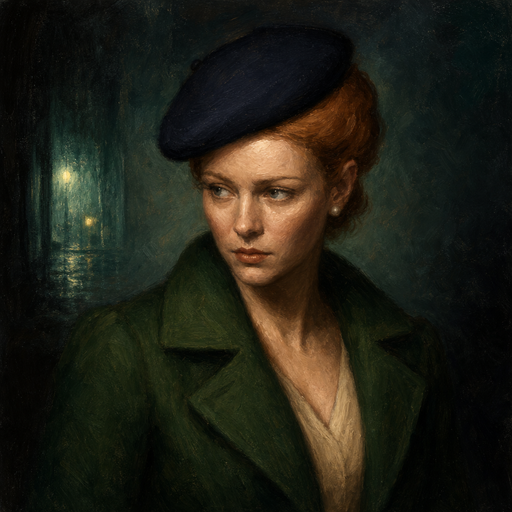
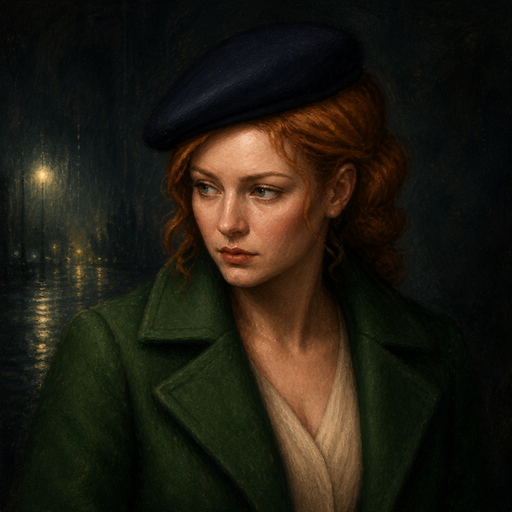
Refresh Lila March to a younger V9 identity with BGEE pixel crunch. (#3)
Regenerate her SW key, arrival/departure masters, and dialogue portrait as an
early-twenties emerald-coat client, then install 25 LilaArrival cells plus the
portrait through process_pre_rendered_characters_v9.py (V7 crunch, NE→NW flip).

diff --git a/ArtSource/Processing/process_pre_rendered_characters_v9.py b/ArtSource/Processing/process_pre_rendered_characters_v9.py
@@ -1,0 +1,214 @@
+#!/usr/bin/env python3
+"""V9 Lila March identity refresh: process PreRendered3DV9 masters with V7 crunch.
+
+Reuses V6 slicing/registration and V7 pixelization (80px / 64 colors / nearest →
+200px). Harlan Voss is not regenerated. Installs the hand-readable dialogue
+portrait (Lanczos → 512×512; no nearest-pixelize).
+
+NW departure cells are horizontal flips of the approved NE cells (no re-crunch)
+so face-peek and emerald coat stay on the structural test contract.
+"""
+
+from pathlib import Path
+import shutil
+
+import numpy as np
+from PIL import Image, ImageDraw
+
+import process_pre_rendered_characters_v3 as raster
+from process_pre_rendered_characters_v7 import pixelize_figure_v7
+from process_character_gait_v5 import remove_green_screen
+
+
+ROOT = Path(__file__).resolve().parents[2]
+CLIENT_SOURCE = ROOT / "ArtSource/Generated/Characters/Client/PreRendered3DV9"
+PORTRAIT_SOURCE = ROOT / "ArtSource/Generated/UI/Dialogue"
+DIALOGUE_UI = ROOT / "RainShadow Shared/Resources/Art/UI/Dialogue"
+ATLASES = ROOT / "RainShadow Shared/Resources/Art/Atlases"
+BACKUP = ROOT / "ArtSource/Generated/Characters/RuntimeBackupLilaPreRendered3DV7"
+
+LILA_ATLAS = "LilaArrival.atlas"
+
+
+def keyed(source_dir: Path, stem: str) -> Path:
+    chroma = source_dir / f"{stem}_chroma_v09.png"
+    rgba = source_dir / f"{stem}_rgba_v09.png"
+    remove_green_screen(chroma, rgba)
+    return rgba
+
+
+def despill_figure(figure: Image.Image) -> Image.Image:
+    """Kill leftover chroma fringe and pull coat G−R toward the V7 emerald band."""
+    pixels = np.asarray(figure.convert("RGBA")).copy()
+    rgb = pixels[..., :3].astype(np.float32)
+    red, green, blue = rgb[..., 0], rgb[..., 1], rgb[..., 2]
+    alpha = pixels[..., 3].astype(np.float32)
+
+    # Near-pure #00ff00 leftovers → transparent.
+    pure = (alpha > 40) & (green > 150) & (green > red + 40) & (green > blue + 40)
+    alpha[pure] = 0
+
+    # Soft fringe despill where green still dominates the other channels heavily.
+    other = np.maximum(red, blue)
+    dominance = green - other
+    spill = (alpha > 4) & (dominance > 28) & (green > 90)
+    green = np.where(spill, np.minimum(green, other * 1.08 + 8.0), green)
+
+    # Mild coat pull: deep emerald mid-tones with G−R still high after keying.
+    coat = (
+        (alpha > 80)
+        & (green > 30)
+        & (green < 160)
+        & (green > red)
+        & (green > blue)
+        & ((green - red) > 14)
+    )
+    green = np.where(coat, green - np.minimum(green - red - 12.0, 6.0), green)
+
+    pixels[..., 0] = np.clip(red, 0, 255).astype(np.uint8)
+    pixels[..., 1] = np.clip(green, 0, 255).astype(np.uint8)
+    pixels[..., 2] = np.clip(blue, 0, 255).astype(np.uint8)
+    pixels[..., 3] = np.clip(alpha, 0, 255).astype(np.uint8)
+    pixels[pixels[..., 3] < 4] = 0
+    return Image.fromarray(pixels, "RGBA")
+
+
+def save_frame_v9(frame: Image.Image, atlas_name: str, filename: str, source_dir: Path) -> None:
+    registered_dir = source_dir / "Registered_v09"
+    registered_dir.mkdir(parents=True, exist_ok=True)
+    atlas = ATLASES / atlas_name
+    atlas.mkdir(parents=True, exist_ok=True)
+    path = registered_dir / filename
+    frame.save(path, optimize=True)
+    shutil.copy2(path, atlas / filename)
+
+
+def backup_lila_runtime() -> None:
+    if BACKUP.exists():
+        return
+    BACKUP.mkdir(parents=True)
+    source = ATLASES / LILA_ATLAS
+    if source.exists():
+        destination = BACKUP / LILA_ATLAS
+        destination.mkdir()
+        for path in source.glob("*.png"):
+            shutil.copy2(path, destination / path.name)
+    ui = BACKUP / "UI"
+    ui.mkdir(exist_ok=True)
+    portrait = DIALOGUE_UI / "dialogue_portrait_lila_march_v01.png"
+    if portrait.exists():
+        shutil.copy2(portrait, ui / portrait.name)
+
+
+def process_lila() -> None:
+    rgba = keyed(CLIENT_SOURCE, "lila_arrival_sw_strip")
+    figures = raster.crop_components(rgba, 9, 1)
+    if len(figures) != 9:
+        raise RuntimeError(f"Expected 9 arrival figures, found {len(figures)}")
+    for index, figure in enumerate(figures):
+        save_frame_v9(
+            despill_figure(raster.register(despill_figure(figure))),
+            LILA_ATLAS,
+            f"lila_arrival_sw_{index:02d}.png",
+            CLIENT_SOURCE,
+        )
+
+    rgba = keyed(CLIENT_SOURCE, "lila_departure_ne_strip")
+    figures = raster.crop_components(rgba, 8, 1)
+    if len(figures) != 8:
+        raise RuntimeError(f"Expected 8 NE departure figures, found {len(figures)}")
+    ne_frames: list[Image.Image] = []
+    for index, figure in enumerate(figures):
+        frame = despill_figure(raster.register(despill_figure(figure)))
+        ne_frames.append(frame)
+        save_frame_v9(
+            frame,
+            LILA_ATLAS,
+            f"lila_departure_ne_{index:02d}.png",
+            CLIENT_SOURCE,
+        )
+
+    # NW rear is the horizontal flip of approved NE cells: face peek moves to
+    # viewer-left, and anatomical-left handbag lands screen-right (correct for NW).
+    # Avoids generator NW/NE collapse and keeps coat emerald identical (no re-crunch).
+    for index, frame in enumerate(ne_frames):
+        save_frame_v9(
+            frame.transpose(Image.Transpose.FLIP_LEFT_RIGHT),
+            LILA_ATLAS,
+            f"lila_departure_nw_{index:02d}.png",
+            CLIENT_SOURCE,
+        )
+
+
+def process_lila_portrait() -> None:
+    master = PORTRAIT_SOURCE / "dialogue_portrait_lila_march_v01_master.png"
+    if not master.exists():
+        raise FileNotFoundError(master)
+    portrait = Image.open(master).convert("RGB")
+    portrait = portrait.resize((512, 512), Image.Resampling.LANCZOS)
+    DIALOGUE_UI.mkdir(parents=True, exist_ok=True)
+    portrait.save(DIALOGUE_UI / "dialogue_portrait_lila_march_v01.png", optimize=True)
+
+
+def make_previews_v9() -> None:
+    frame_size = raster.FRAME_SIZE
+    names = (
+        [f"lila_arrival_sw_{i:02d}.png" for i in range(9)]
+        + [f"lila_departure_ne_{i:02d}.png" for i in range(8)]
+        + [f"lila_departure_nw_{i:02d}.png" for i in range(8)]
+    )
+    columns = 9
+    rows = (len(names) + columns - 1) // columns
+    preview = Image.new("RGBA", (frame_size * columns, frame_size * rows), (24, 28, 31, 255))
+    atlas = ATLASES / LILA_ATLAS
+    for index, name in enumerate(names):
+        frame = Image.open(atlas / name).convert("RGBA")
+        preview.alpha_composite(
+            frame,
+            ((index % columns) * frame_size, (index // columns) * frame_size),
+        )
+    out = CLIENT_SOURCE / "preview_lila_v09.png"
+    preview.save(out, optimize=True)
+
+    office = Image.open(ROOT / "ArtSource/References/UI/Map/office_runtime_clean_v02.png").convert("RGBA")
+    actors = [
+        (790, 800, ATLASES / "VossIdle.atlas/voss_standing_idle_se_00.png", 54, 20),
+        (1450, 800, atlas / "lila_arrival_sw_08.png", 44, 15),
+    ]
+    shadow_layer = Image.new("RGBA", office.size)
+    shadow_draw = ImageDraw.Draw(shadow_layer)
+    for root_x, root_y, _, shadow_w, shadow_h in actors:
+        shadow_draw.ellipse(
+            (
+                root_x - shadow_w // 2,
+                root_y - shadow_h // 2,
+                root_x + shadow_w // 2,
+                root_y + shadow_h // 2,
+            ),
+            fill=(0, 0, 0, 88),
+        )
+    office.alpha_composite(shadow_layer)
+    for root_x, root_y, path, _, _ in actors:
+        frame = Image.open(path).convert("RGBA").resize((256, 256), Image.Resampling.NEAREST)
+        office.alpha_composite(frame, (root_x - 128, root_y - 217))
+    office.convert("RGB").save(
+        ROOT / "ArtSource/Generated/Characters/preview_characters_in_office_v09.png",
+        optimize=True,
+    )
+
+
+def main() -> None:
+    backup_lila_runtime()
+    raster.pixelize_figure = pixelize_figure_v7
+    process_lila()
+    process_lila_portrait()
+    make_previews_v9()
+    cells = 9 + 8 + 8
+    print(
+        f"Registered {cells} V9 Lila atlas cells (V7 crunch) from {CLIENT_SOURCE.name}; "
+        f"portrait installed; prior Lila runtime backed up to {BACKUP.name}"
+    )
+
+
+if __name__ == "__main__":
+    main()

diff --git a/ArtSource/Prompts/character_prerendered_3d_v09.md b/ArtSource/Prompts/character_prerendered_3d_v09.md
@@ -1,0 +1,72 @@
+# Character pre-rendered 3D V9 style lock (Lila March identity refresh)
+
+Generated 2026-07-31. Scope: **Lila March only** — SW arrival (8 walk + 1 idle), NE/NW departure (8 each), and dialogue portrait. Harlan Voss stays on the V8 ships. Raster crunch reuses the approved **V7** BGEE pass (80 px native / 64 colors / nearest → 200 px texture).
+
+## Review finding
+
+V6/V7 locked the correct BGEE rendering language and costume palette for Lila, but she still reads as a generic mid-century adult dame. V9 keeps the V6 **silhouette, palette, and processing contract** and refreshes the **face and age**: early twenties, softer prettier bone structure, alert/guarded noir expression, so she reads younger and more attractive at portrait and play scale.
+
+## Shared generation contract
+
+> Create a Baldur's Gate: Enhanced Edition–era Infinity Engine pre-rendered 3D character avatar: a simple textured late-1990s game mesh rendered offline into a small 2D gameplay sprite. Soft directional baked light from the upper-left, soft anti-aliased silhouette against the backdrop, readable clothing folds and masses, ordinary realistic human proportions, and only a few pixels of facial suggestion at play scale. Not modern PBR, not photoreal concept art, not hand-drawn pixel art, not toy/chibi proportions, not hard black comic outlines, not polished contemporary low-poly illustration. No pores, individual hair strands, glossy materials, cinematic rim light, depth of field, floor plane, cast/contact shadow, scenery, text, UI, or watermark. Place every complete figure on a perfectly flat uniform `#00ff00` chroma-key field. Do not use `#00ff00` in the character.
+
+Style references (analysis only — do not copy outfits, faces, or silhouettes):
+
+- `ArtSource/References/BGEE/bgee_avatar_townsfolk_yellow_red.png`
+- `ArtSource/References/BGEE/bgee_avatar_red_tunic_fighter.png`
+- `ArtSource/References/BGEE/bgee_avatar_dark_vest_fighter.png`
+- `ArtSource/References/BGEE/bgee_avatar_green_robe.png`
+- `ArtSource/References/BGEE/bgee_avatar_mage_circle_robes.png`
+- `ArtSource/References/BGEE/bgee_avatar_plate_armor_fighter.png`
+
+Identity gate reference (V9 approved key — match this character in every sheet):
+
+- `ArtSource/Generated/Characters/Client/PreRendered3DV9/lila_key_sw_chroma_v09.png`
+
+## Character lock (V9 — Lila identity refresh)
+
+- **Lila March (client):** slim **early-twenties** mid-century silhouette; **pale auburn hair** loosely pinned / soft waves under a **small dark-navy beret**; **younger, prettier** face with soft cheekbones, fuller lips suggestion, large alert eyes, and a guarded noir expression (not matronly, not childlike); **deep emerald swing coat** flaring below the waist; cream day dress beneath; short dark gloves; compact **dark handbag on her anatomical left hand**; sensible dark shoes. She appears only in authored SW arrival / NE / NW departure directions, so the handbag is never mirrored.
+
+- **Harlan Voss:** unchanged from V8. Do not regenerate.
+
+Hard rejects:
+
+| Reject | Require |
+|---|---|
+| Older / matronly / mid-forties face | Early-twenties softer prettier face, alert eyes |
+| Burgundy Vivian hat/suit costume | Navy beret, emerald swing coat, cream dress |
+| Modern PBR, photoreal, hand pixel art, comic outlines | BGEE pre-rendered 3D avatar craft |
+| Franchise / BG character copies | Original RainShadow Lila |
+| Whole-figure horizontal flip of sheets | Preserve upper-left light and anatomical-left handbag |
+
+Soft locks vs V6 key: same navy beret / emerald coat / cream dress / pale auburn / dark gloves / handbag-left palette and swing-coat silhouette; younger prettier face.
+
+Sheet prompts change only direction, pose, and phase while retaining this contract and the matching V9 identity key.
+
+## Camera and runtime contract
+
+- Orthographic / 2:1 dimetric gameplay camera, looking down about 30–35 degrees; same RainShadow office projection as prior locks.
+- Generator masters: flat `#00ff00` chroma, no floor or shadow.
+- Processing: V6 key/slice/register flow pointed at `PreRendered3DV9/` masters, then **V7 crunch** (`process_pre_rendered_characters_v9.py`): 80 px native body, 64-color opaque-only palette, no dither, nearest → 200 px texture body on 512×512 (`FOOT_Y = 434`). SpriteKit nearest filtering at display size.
+- Client arrival: 8 walk + 1 idle SW. Departure: 8 NE + 8 NW (path-segment facing; no runtime mirror).
+- NE departure: authored rear three-quarter upper-right strip; handbag anatomical left (screen-left).
+- NW departure: installed as a horizontal flip of the approved NE cells inside `process_pre_rendered_characters_v9.py` (no re-crunch) so face peek stays viewer-left and coat emerald matches NE exactly; anatomical-left handbag reads screen-right after the flip.
+- Portrait shares identity but skips the nearest-pixelize gameplay pass (Lanczos → 512×512).
+
+## Runtime naming (unchanged IDs)
+
+| Clip | Frame names | Atlas |
+|---|---|---|
+| Client arrival | `lila_arrival_sw_{00–08}` (08 = idle) | `LilaArrival.atlas` |
+| Client departure NE | `lila_departure_ne_{00–07}` | `LilaArrival.atlas` |
+| Client departure NW | `lila_departure_nw_{00–07}` | `LilaArrival.atlas` |
+| Dialogue portrait | `dialogue_portrait_lila_march_v01` | `UI/Dialogue/` |
+
+## Gate assets
+
+| Asset | Path |
+|---|---|
+| Lila SW key | `Client/PreRendered3DV9/lila_key_sw_chroma_v09.png` |
+| Play-scale preview | `Generated/Characters/preview_characters_in_office_v09.png` |
+
+Do not batch-generate animation sheets until the SW key passes play-scale review against the BGEE references and clearly reads as younger, prettier, and early-twenties while keeping the V6 costume palette.

diff --git a/ArtSource/Prompts/GenerationLog.md b/ArtSource/Prompts/GenerationLog.md
@@ -213,3 +213,4 @@ All prompts use the supplied Baldur's Gate-era screenshots as style-analysis ref
 - **Dialogue scrollbar Mac OS 9 V05 (2026-07-29):** replaced the V04 suite (pillowed bevels, engraved triangles, woven track) with literal Platinum grammar painted in RainShadow gunmetal — flat matte faces, hairline bevels, solid filled triangles, plain recessed channel. Runtime ships `dialogue_scroll_{up,down,track}_v05`, `dialogue_scroll_thumb_v07`, `dialogue_scroll_thumb_grip_v09`; flush button/track assembly (`chromeLayout`, no 3pt gap) and full-width scroll box (`thumbWidthInset = 0`). Prompt: `Prompts/dialogue_scrollbar_macos9_v05.md`; processor: `process_ui_chrome_v03.py` `SCROLL_PARTS_V05`.
 - **Dialogue scrollbar System 7 V06 (2026-07-29):** replaced Platinum grammar with System 7 — outlined arrowhead + rectangular stem handle (processor-stamped, not generated solid triangles), fixed square scroll box, pixel-exact dithered gray area that goes solid when content fits, pressed arrow art, no grip ridges, no hover tint. Runtime ships `dialogue_scroll_{up,down,up_pressed,down_pressed}_v06`, `dialogue_scroll_box_v06`, `dialogue_scroll_area_v06` / `_solid_v06`. Prompt: `Prompts/dialogue_scrollbar_system7_v06.md`; processor: `process_dialogue_scrollbar_system7_v06()`.
 - **Harlan Voss identity refresh V8 (2026-07-30):** full Voss-only redo so the detective reads early-thirties, clean-shaven, handsome, and lived-in/broken-down while keeping the V6 olive/mustard/green/slate fedora wardrobe. Built-in Image Generator produced walk (9×8), standing idle (9×4), seated idle (8), and stand-up/sit-down (12 each) chroma masters under `Detective/PreRendered3DV8/`, locked to approved `voss_key_se_chroma_v08_approved.png`; seated desk-chain masters were rebuilt from a clean-shaven seated key after early seated sheets drifted toward the old mustached face. `process_pre_rendered_characters_v8.py` applies the approved V7 BGEE crunch (80px native / 64 opaque-only colors / nearest → 200px on 512) into `VossWalk`, `VossIdle`, `VossSeatedIdle`, `VossSeatedArms`, and `VossSeatTransitions`; prior V7 runtime backed up under `RuntimeBackupPreRendered3DV7`. Dialogue portrait `dialogue_portrait_harlan_voss_v01` and inventory paperdoll `voss_paperdoll_front_rgba_v01` already match V8 identity and skip the nearest-pixelize pass. Lila March unchanged. Prompt lock: `Prompts/character_prerendered_3d_v08.md`.
+- **Lila March identity refresh V9 (2026-07-31):** Lila-only redo so the client reads early-twenties and prettier while keeping the V6 navy beret / emerald swing coat / cream dress / pale-auburn / handbag-left wardrobe. Built-in Image Generator produced SW identity key, SW arrival strip (8 walk + 1 idle), NE departure strip (8), and a new dialogue portrait master under `Client/PreRendered3DV9/` + `Generated/UI/Dialogue/dialogue_portrait_lila_march_v01_master.png`. `process_pre_rendered_characters_v9.py` applies the approved V7 BGEE crunch with coat despill into `LilaArrival.atlas` (25 cells), installs NW departure as a no-recrunch horizontal flip of the approved NE cells (face peek left; anatomical-left bag reads screen-right; emerald G−R matches NE), and Lanczos-installs `dialogue_portrait_lila_march_v01`. Prior Lila runtime backed up under `RuntimeBackupLilaPreRendered3DV7`. Harlan Voss unchanged on V8. Prompt lock: `Prompts/character_prerendered_3d_v09.md`.

diff --git a/Documentation/AssetManifest.md b/Documentation/AssetManifest.md
@@ -236,14 +236,14 @@ lila_departure_ne_00.png ... lila_departure_ne_07.png
 lila_departure_nw_00.png ... lila_departure_nw_07.png
 ```
 
-Atlases (shipped V8 set — V7 BGEE crunch of V8 identity masters):
+Atlases (shipped set — Voss V8 identity + Lila V9 identity, both on V7 BGEE crunch):
 
 - `VossSeatedIdle.atlas` — seated idle body frames.
 - `VossSeatedArms.atlas` — derived seated forearm overlay (draws above the desk's front occluder).
 - `VossSeatTransitions.atlas` — stand-up and sit-down clips.
 - `VossIdle.atlas` — all standing idles (including mirrored SE copies).
 - `VossWalk.atlas` — all walk directions.
-- `LilaArrival.atlas` — Lila arrival, standing idle, and departure.
+- `LilaArrival.atlas` — Lila March V9 arrival, standing idle, and NE/NW departure.
 
 Additional character texture:
 
